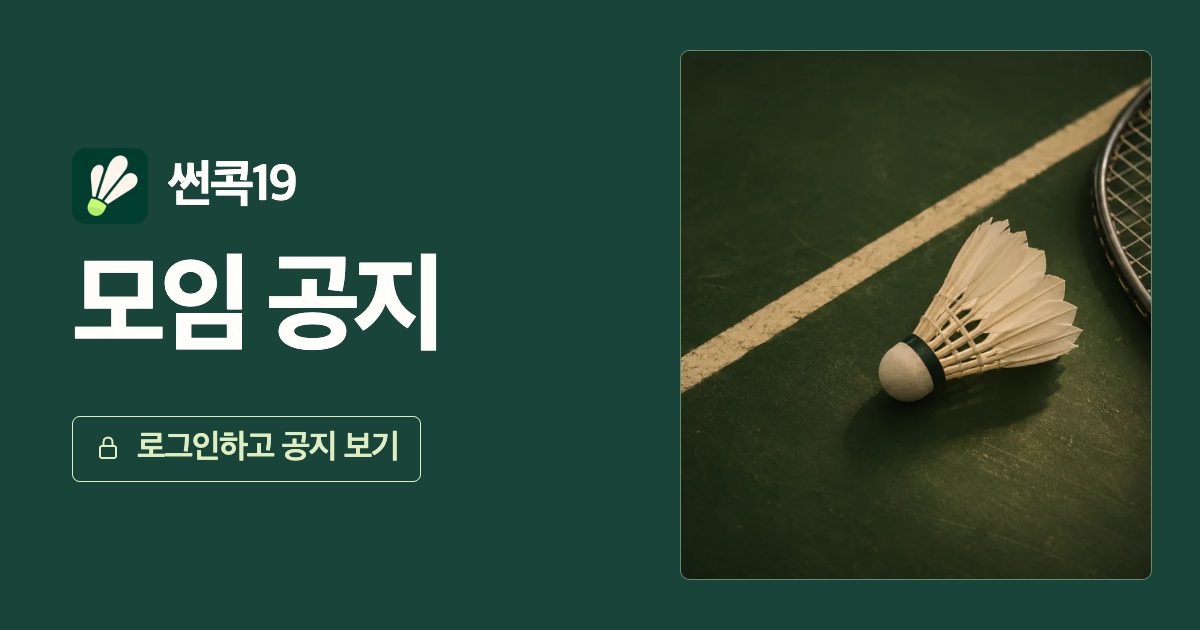
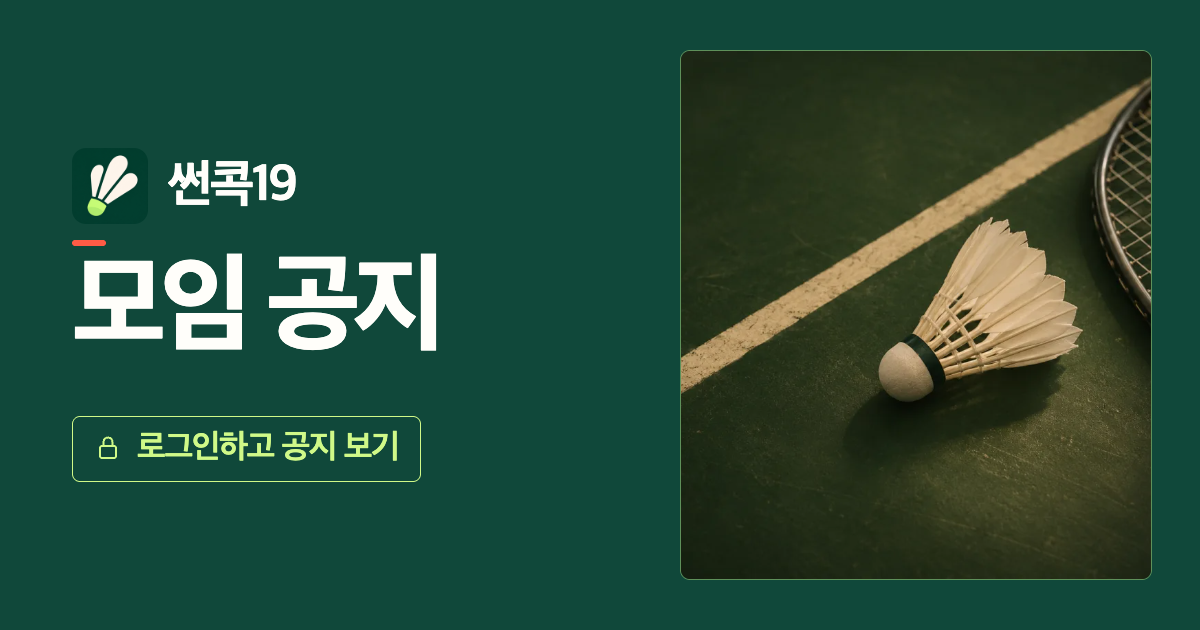
Auto-submit six-digit sign-in and refine the club palette

Changed region(s): [[0.0617, 0.6635, 0.3392, 0.754], [0.0617, 0.3619, 0.0925, 0.3921]]

diff --git a/worker/public/live.css b/worker/public/live.css
@@ -1,8 +1,6 @@
 :root {
   --site-header-row: 72px;
   --site-header-block: calc(var(--site-header-row) + var(--safe-top) + 1px);
-  --alert: #8a3426;
-  --alert-bg: #f8e8df;
   color: var(--ink);
   background: var(--paper);
   font-family: var(--font-text);
@@ -81,12 +79,13 @@ html:has(#account:not(:empty)) { scroll-padding-top: calc(var(--site-header-bloc
   padding: clamp(1.35rem, 4vw, 2.5rem);
   color: #f5f7ed;
   background-color: var(--court);
-  background-image: linear-gradient(90deg, #174236 12%, #19443aec 54%, #19443a73 100%), url("/assets/court.webp");
+  background-image: linear-gradient(90deg, var(--court) 12%, #10483aed 54%, #10483a75 100%), url("/assets/court.webp");
   background-position: center, right center;
   background-size: cover;
   border-radius: 16px;
 }
-.hero .tagline { color: #deefcf; font-size: .9rem; font-weight: 700; }
+.hero .tagline { display: flex; align-items: center; gap: .5rem; color: var(--lime); font-size: .9rem; font-weight: 700; }
+.hero .tagline::before { content: ''; inline-size: .9rem; block-size: 3px; border-radius: 3px; background: var(--accent-red); }
 .hero-meta { display: flex; align-items: center; flex-wrap: wrap; gap: .25rem .9rem; color: #f4f6eb; }
 .hero-meta span { font-size: .99rem; }
 .muted { color: var(--muted); }
@@ -127,7 +126,7 @@ html:has(#account:not(:empty)) { scroll-padding-top: calc(var(--site-header-bloc
 .button:hover, button:hover:not(:disabled) { filter: brightness(.95); }
 .button.secondary, button.secondary { background: var(--surface); color: var(--action); border-color: #8da998; }
 button.quiet { color: var(--action); background: none; border-color: transparent; padding: .35rem .35rem; }
-button.danger { color: var(--alert); background: var(--alert-bg); border-color: #d7a295; }
+button.danger { color: var(--ink); background: var(--hint); border-color: var(--muted); }
 button.compact { padding-inline: .65rem; font-size: .875rem; }
 .button.block, button.block { width: 100%; }
 button.admin-menu-toggle { display: inline-flex; width: var(--touch-target); padding: 0; }
@@ -157,7 +156,7 @@ button.admin-menu-toggle { display: inline-flex; width: var(--touch-target); pad
   color: var(--ink);
   background: transparent;
 }
-.admin-menu button[aria-current="page"] { border-inline-start-color: var(--action); background: var(--hint); }
+.admin-menu button[aria-current="page"] { border-inline-start-color: var(--action); background: var(--leaf); }
 .admin-menu button:focus-visible { outline-offset: -3px; }
 @media (hover: hover) { .admin-menu button:hover:not(:disabled) { background: var(--hint); filter: none; } }
 @media (min-width: 900px) {
@@ -195,10 +194,12 @@ button.admin-menu-toggle { display: inline-flex; width: var(--touch-target); pad
 button.login-help-button { width: 44px; flex: none; color: var(--muted); font-size: 1.25rem; }
 .login-guide { display: grid; gap: .65rem; word-break: keep-all; }
 .login-form { gap: .75rem; }
+.login-greeting { display: flex; align-items: center; gap: .45rem; padding-top: .25rem; }
+.login-greeting p { font-weight: 750; overflow-wrap: anywhere; }
+button.login-back { flex: 0 0 var(--touch-target); padding: 0; }
 .login-form input[name], .login-code-cells > span { border: 1px solid #9baa99; border-radius: 8px; background: var(--surface); }
-.login-form input[name]:focus { border-color: var(--action); outline: 2px solid #22553f37; outline-offset: 0; }
-.login-actions { display: flex; gap: .5rem; }
-.login-actions button[type="submit"] { flex: 1; }
+.login-form input[name]:focus { border-color: var(--action); outline: 2px solid var(--leaf); outline-offset: 0; }
+.login-form button[hidden] { display: none; }
 .login-code { position: relative; display: block; max-width: 20rem; }
 .login-code input[data-login-code] {
   position: absolute;
@@ -213,9 +214,9 @@ button.login-help-button { width: 44px; flex: none; color: var(--muted); font-si
 .login-code-cells > span { display: grid; place-items: center; min-height: 36px; aspect-ratio: 1; }
 .login-code:focus-within .login-code-cells > [data-position] { border-color: var(--action); background: var(--leaf); }
 .login-code-cells > [data-filled]::after { content: ''; width: .56rem; height: .56rem; border-radius: 50%; background: var(--ink); }
-.login-form input[aria-invalid="true"], .login-code:has(input[aria-invalid="true"]) .login-code-cells > span { border-color: var(--alert); }
-.inline-error { color: var(--alert); overflow-wrap: anywhere; }
-.login-field .inline-error { margin-top: .4rem; }
+.login-form input[aria-invalid="true"], .login-code:has(input[aria-invalid="true"]) .login-code-cells > span { border-color: var(--ink); }
+.inline-error { color: var(--ink); font-weight: 650; overflow-wrap: anywhere; }
+.login-field :is(.inline-error, .login-pending) { margin-top: .4rem; }
 .fields { display: grid; grid-template-columns: repeat(2, minmax(0, 1fr)); gap: .75rem; }
 .fields .wide { grid-column: 1 / -1; }
 .event-fields input { min-width: 0; }
@@ -233,7 +234,7 @@ button.login-help-button { width: 44px; flex: none; color: var(--muted); font-si
 .choice strong { display: block; }
 .choice small { display: block; color: var(--muted); }
 .help-box { border-left: 4px solid #719267; background: var(--hint); padding: .75rem .9rem; color: var(--ink); }
-.help-box.warn { border-color: #a8593e; background: var(--alert-bg); }
+.help-box.warn { border-color: var(--muted); background: var(--hint); }
 .help-box p + p { margin-top: .35rem; }
 .preserve { white-space: pre-line; overflow-wrap: anywhere; }
 .metrics { display: grid; grid-template-columns: repeat(auto-fit, minmax(84px, 1fr)); gap: .4rem; margin: 0; }
@@ -283,6 +284,7 @@ button.login-help-button { width: 44px; flex: none; color: var(--muted); font-si
 .member-vote .choice:has(input:checked) { border-color: var(--action); background: var(--leaf); }
 .member-vote .choice:has(input:focus-visible) { outline: 2px solid var(--focus); outline-offset: 1px; }
 .member-vote .choice input:focus-visible { outline: none; }
+.vote-closed { color: var(--muted); font-weight: 700; }
 .member-back, .member-record-link, .member-vote .choice, .member-vote .check, .member-vote button { touch-action: manipulation; }
 .form[data-form="pin"] input[type="password"] { border-color: #8b949e; border-radius: 5px; background: white; font-size: 1rem; }
 .form[data-form="pin"] input[type="password"]:focus { border-color: var(--action); outline: 2px solid var(--focus); outline-offset: 0; }
@@ -318,7 +320,7 @@ hr { width: 100%; border: 0; border-top: 1px solid var(--line); margin: .15rem 0
   box-shadow: 0 5px 18px #19443a30;
   pointer-events: none;
 }
-.message.error { background: var(--alert); }
+.message.error { background: var(--ink); }
 .message.visually-hidden { width: 1px; height: 1px; padding: 0; overflow: hidden; clip-path: inset(50%); }
 dialog {
   position: fixed;

diff --git a/styles.css b/styles.css
@@ -8,7 +8,6 @@
   --green: var(--action);
   --dark: var(--court);
   --soft: var(--hint);
-  --lime: var(--leaf);
   --sidebar-width: 224px;
 }
 * { box-sizing: border-box; }
@@ -84,7 +83,7 @@ p { line-height: 1.58; }
 .featured::after { content: ""; position: absolute; z-index: -1; inset: 0; background: linear-gradient(90deg,#183f2e 4%,#183f2e 23%,#183f2ef6 34%,#183f2e66 59%,#09251e0a 90%); }
 .featured-content { padding: 25px 28px 24px; margin: auto 0; min-width: 0; }
 .featured-kicker { display: inline-flex; align-items: center; gap: 7px; color: #dbf4bb; font-size: .86rem; font-weight: 800; }
-.featured-kicker i { background: #d1f67b; }
+.featured-kicker i { background: var(--accent-red); }
 .featured h2 { font-size: clamp(1.8rem,3.3vw,3.14rem); margin: 10px 0 15px; font-weight: 850; letter-spacing: -.055em; overflow-wrap: anywhere; }
 .featured-meta { display: grid; gap: 8px; }
 .featured-meta span { color: #f0f8ed; font-size: .94rem; font-weight: 650; display: flex; align-items: center; gap: 7px; }
@@ -94,8 +93,8 @@ p { line-height: 1.58; }
 .dashboard-panel-head { display: flex; justify-content: space-between; align-items: center; gap: 7px; }
 .dashboard-panel-head h2 { font-size: 1.16rem; font-weight: 850; }
 .poll-status { display: inline-flex; gap: 6px; align-items: center; padding: 5px 8px; border-radius: 6px; color: #2c6243; background: #ebf5e9; font-size: .76rem; white-space: nowrap; font-weight: 800; }
-.poll-status.closed { color: #5c635f; background: #eef1ed; }
-.poll-status.closed i { background: #78847c; }
+.poll-status.closed { color: var(--muted); background: var(--hint); }
+.poll-status.closed i { background: var(--muted); }
 .progress-meta { display: flex; align-items: baseline; justify-content: space-between; margin-top: 19px; color: #4c6153; font-size: .87rem; font-weight: 700; }
 .progress-meta strong { font-size: 1.8rem; color: #1c3d2c; line-height: 1; font-weight: 850; letter-spacing: -.045em; font-variant-numeric: tabular-nums; }
 .progress-meta small { font-size: .92rem; }
@@ -169,7 +168,6 @@ p { line-height: 1.58; }
 .pill-green, .pill-good { background: #e8f3e7; color: #28583e; }
 .pill-warm, .pill-amber { background: #f6efdf; color: #785228; }
 .pill-muted { background: #edf1ed; color: #4d5d52; }
-.pill-red { background: #f9ece7; color: #854336; }
 .event-facts { display: flex; flex-wrap: wrap; gap: 7px 16px; }
 .event-facts>span { display: inline-flex; align-items: center; gap: 6px; }
 .event-facts svg { color: #50745c; }

diff --git a/platform/platform.css b/platform/platform.css
@@ -87,14 +87,15 @@ main.page-width { padding-block: clamp(1.25rem, 4vw, 2.7rem) 4rem; }
   padding: clamp(1.4rem, 6vw, 4.4rem);
   border-radius: clamp(1rem, 3vw, 1.6rem);
   background-color: var(--court);
-  background-image: linear-gradient(90deg, #14372a 2%, #14372afa 25%, #14372ac2 51%, #14372a18 81%), url("assets/court.webp");
+  background-image: linear-gradient(90deg, var(--court) 2%, #10483afa 25%, #10483ac2 51%, #10483a18 81%), url("assets/court.webp");
   background-position: center, right 53%;
   background-size: cover;
   color: #f7fae9;
 }
 
 .hero-copy { max-width: 29rem; }
-.hero-label { font-size: .94rem; font-weight: 750; color: var(--leaf); }
+.hero-label { display: flex; align-items: center; gap: .5rem; font-size: .94rem; font-weight: 750; color: var(--lime); }
+.hero-label::before { content: ''; inline-size: .9rem; block-size: 3px; border-radius: 3px; background: var(--accent-red); }
 
 .hero h1 {
   margin-block: .08em .2em;
@@ -322,7 +323,7 @@ main.page-width { padding-block: clamp(1.25rem, 4vw, 2.7rem) 4rem; }
 
 @media (max-width: 44rem) {
   .hero {
-    background-image: linear-gradient(90deg, #14372af5 0%, #14372ad4 45%, #14372a80 100%), url("assets/court.webp");
+    background-image: linear-gradient(90deg, #10483af5 0%, #10483ad4 45%, #10483a80 100%), url("assets/court.webp");
     background-position: center, 68% center;
   }
 

diff --git a/platform/theme.css b/platform/theme.css
@@ -1,15 +1,17 @@
 :root {
   color-scheme: light;
-  --paper: #f3f5ec;
-  --surface: #fffefa;
-  --ink: #1f332a;
-  --muted: #526559;
-  --court: #19443a;
-  --action: #22553f;
-  --leaf: #dfeec1;
-  --line: #d6ded0;
-  --hint: #eef1e7;
-  --focus: #447553;
+  --paper: #f2f3f1;
+  --surface: #fcfdfb;
+  --ink: #252c29;
+  --muted: #56605a;
+  --court: #10483a;
+  --action: #126047;
+  --lime: #d0f988;
+  --leaf: #def49f;
+  --line: #d8ddd9;
+  --hint: #edf0ee;
+  --focus: var(--action);
+  --accent-red: #ff5b45;
   --font-text: "Apple SD Gothic Neo", "Malgun Gothic", "Noto Sans KR", system-ui, sans-serif;
   --safe-top: env(safe-area-inset-top, 0px);
   --safe-bottom: env(safe-area-inset-bottom, 0px);

diff --git a/index.html b/index.html
@@ -3,7 +3,7 @@
 <head>
   <meta charset="utf-8">
   <meta name="viewport" content="width=device-width,initial-scale=1,viewport-fit=cover">
-  <meta name="theme-color" content="#f3f5ec">
+  <meta name="theme-color" content="#f2f3f1">
   <meta name="description" content="배드민턴 모임의 일정, 참석 투표, 공지, 출석을 한 곳에서 관리하는 디자인 초안입니다.">
   <title>썬콕19 · 콕콕콕!</title>
   <link rel="stylesheet" href="platform/theme.css">

diff --git a/worker/public/index.html b/worker/public/index.html
@@ -3,7 +3,7 @@
 <head>
   <meta charset="utf-8">
   <meta name="viewport" content="width=device-width, initial-scale=1, viewport-fit=cover">
-  <meta name="theme-color" content="#f3f5ec">
+  <meta name="theme-color" content="#f2f3f1">
   <meta name="robots" content="noindex, nofollow">
   <!-- share-meta -->
   <!-- club-context -->

diff --git a/OPERATIONS.md b/OPERATIONS.md
@@ -79,7 +79,7 @@ npx wrangler deploy --config worker/wrangler.production.local.json --secrets-fil
 
 ## 화면 변경과 출시 검증
 
-- 모임 목록, 실사용 화면, 가상 체험이 [공통 테마](platform/theme.css)의 본문색·구분선·서체를 사용합니다. 로그인과 모임 입구에는 사진을 두고, 투표·공지와 운영 화면은 제목과 실제 기록을 먼저 배치합니다.
+- 모임 목록, 실사용 화면, 가상 체험이 [공통 테마](platform/theme.css)를 사용합니다. 회색을 바탕으로 진한 그린은 주요 동작, 로고의 연두색은 선택에 씁니다. 선명한 다홍색은 오프닝과 공유 이미지의 브랜드 포인트에 사용하고, 오류와 마감은 문구와 중립색으로 알립니다. 투표·공지와 운영 화면은 제목과 실제 기록을 먼저 배치합니다.
 - 모바일 운영 메뉴와 데스크톱 탐색은 고정 헤더와 같은 안전 영역 기준으로 배치합니다. 주요 조작 영역은 최소 44px입니다. 모달과 모바일 메뉴는 ×·배경·Esc로 닫고 포커스와 스크롤을 복구합니다.
 - 입력, 처리 중, 성공, 실패를 확인합니다. 투표는 서버가 저장한 응답을 표시하고, 저장이 실패하면 입력한 선택을 유지합니다. 일시·출석·집계는 운영 화면에서 가상 기록을 입력한 뒤 API 결과와 대조합니다.
 - 작은 화면의 Chromium과 WebKit에서 가로 넘침과 스크롤, 키보드 포커스, 오류 후 재시도, 카톡 링크의 로그인 후 복귀를 확인합니다. 설치 동작과 카톡 자체 미리보기는 실제 기기에서 확인합니다.
